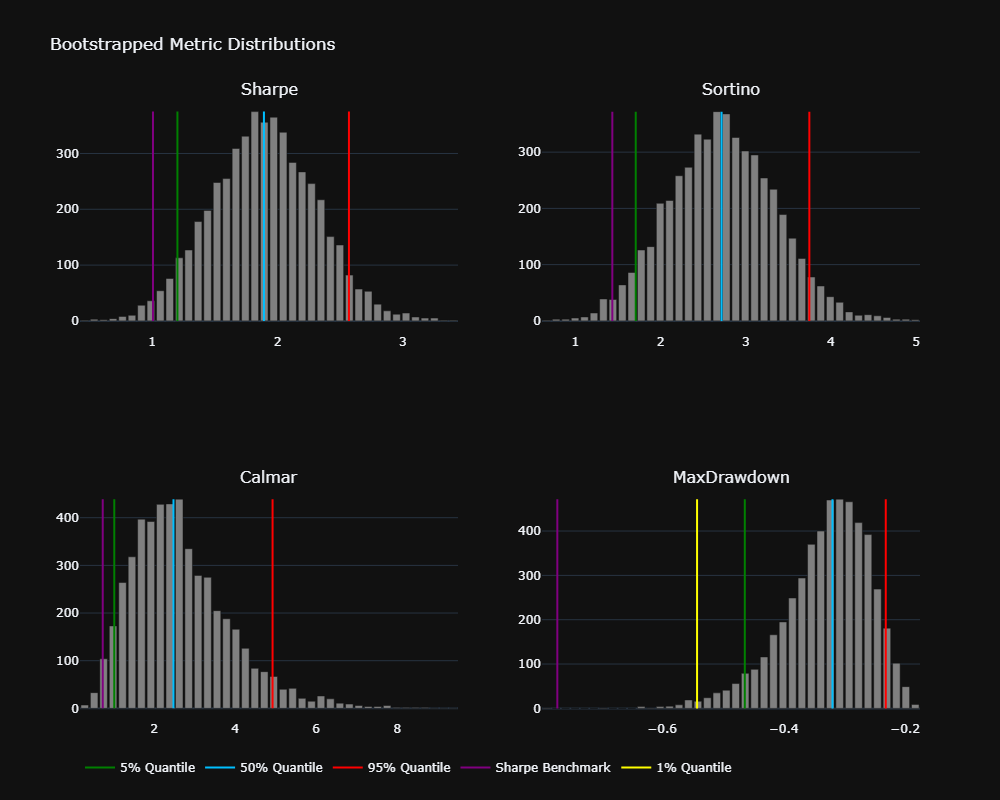
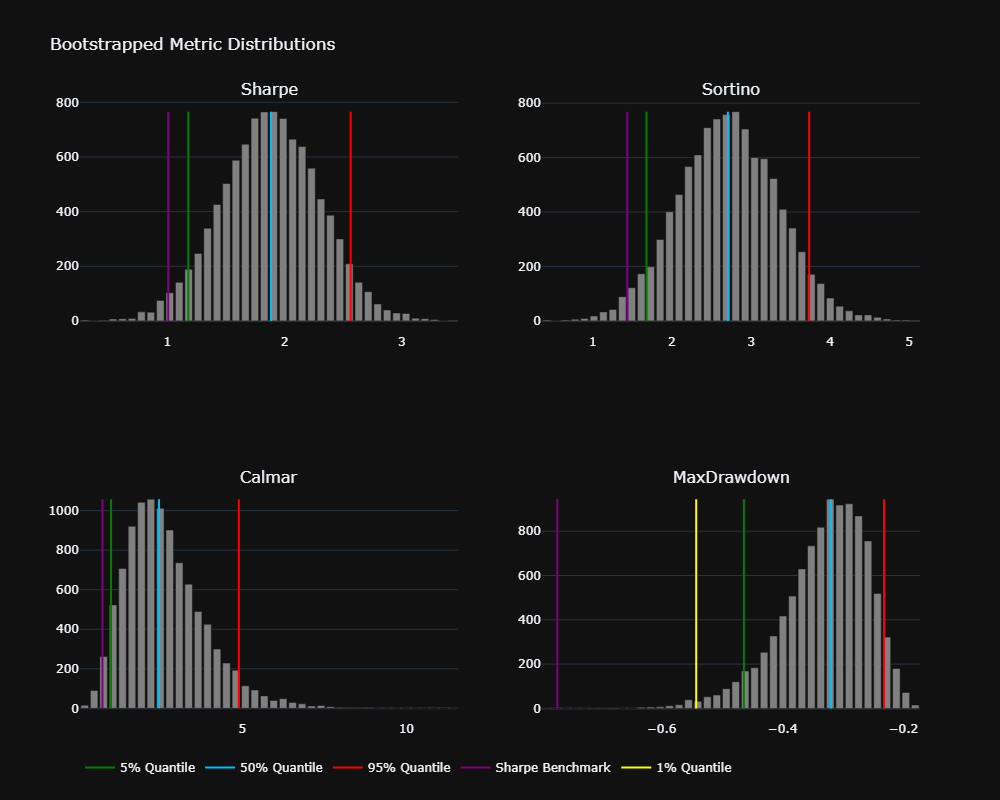
test

diff --git a/README.md b/README.md
@@ -120,6 +120,31 @@ print(analyzer.backtest_results())
 
 analyzer.plot_backtest()
 ```
+
+```text
+Value
+CAGR [%]                                                 79.03
+Benchmark CAGR [%]                                       56.95
+Strategy Performance [%]                               2497.84
+Benchmark Performance [%]                              1144.35
+Strategy Max Drawdown [%]                               -20.01
+Benchmark Max Drawdown [%]                              -77.27
+Annualized Strategy Volatility [%]                        34.1
+Annualized Benchmark Volatility [%]                      66.97
+Sharpe Ratio                                              1.88
+Sortino Ratio                                              2.7
+Calmar Ratio                                              3.95
+Profit Factor                                             1.99
+Correlation to Benchmark                                  0.51
+Total Trades                                               328
+Win Rate [%]                                             37.92
+Best Trade [%]                                           31.94
+Worst Trade [%]                                          -5.82
+Avg Winning Trade [%]                                     5.38
+Avg Losing Trade [%]                                     -1.47
+Avg Winning Trade Duration           3 days 12:48:30.483870967
+Avg Losing Trade Duration            1 days 08:28:53.497536945
+```
 ![Backtest Plot](img/backtest_plt.png)
 
 ---
@@ -140,12 +165,12 @@ mc = Bootstrapping(analyzer=analyzer, n_sims=10000, batch_size=500)
 
 ```text
 
-                 === Empirical P-Value Tests (Simulated vs Benchmark) ===
-
-            Sharpe: p-value = 0.02597 | benchmark = 1.0074 | sim_mean = 1.8779
-           Sortino: p-value = 0.02597 | benchmark = 1.4347 | sim_mean = 2.7074
-            Calmar: p-value = 0.03596 | benchmark = 0.7370 | sim_mean = 2.6538
-       MaxDrawdown: p-value = 0.00200 | benchmark = -0.7727 | sim_mean = -0.3288
+=== Empirical P-Value Tests (Simulated vs Benchmark) ===
+  
+            Sharpe: p-value = 0.03960 | benchmark = 1.0074 | sim_mean = 1.8808
+           Sortino: p-value = 0.04080 | benchmark = 1.4347 | sim_mean = 2.7117
+            Calmar: p-value = 0.03820 | benchmark = 0.7370 | sim_mean = 2.6505
+       MaxDrawdown: p-value = 0.00040 | benchmark = -0.7727 | sim_mean = -0.3299
 
 
 ```
